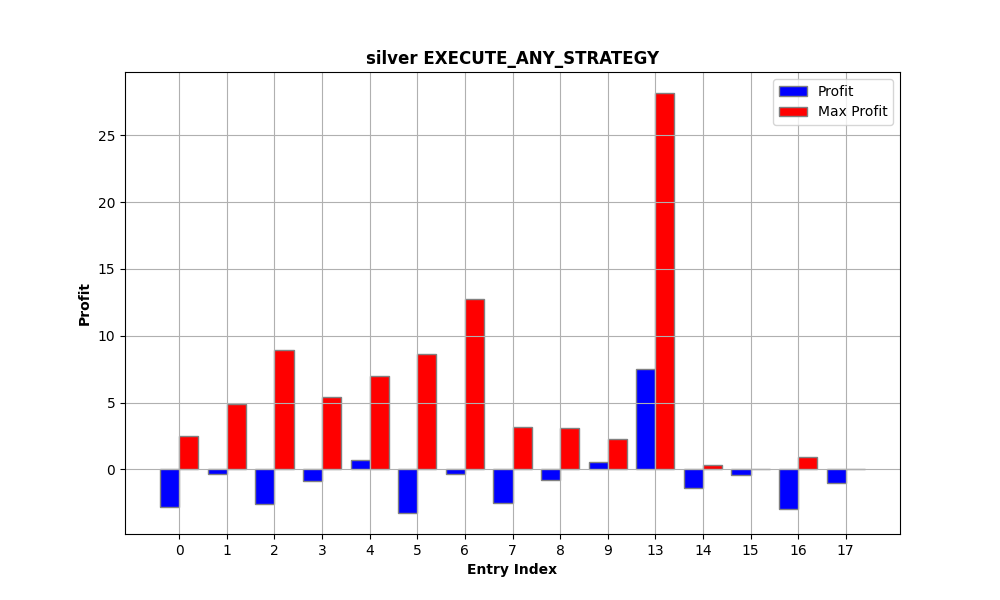
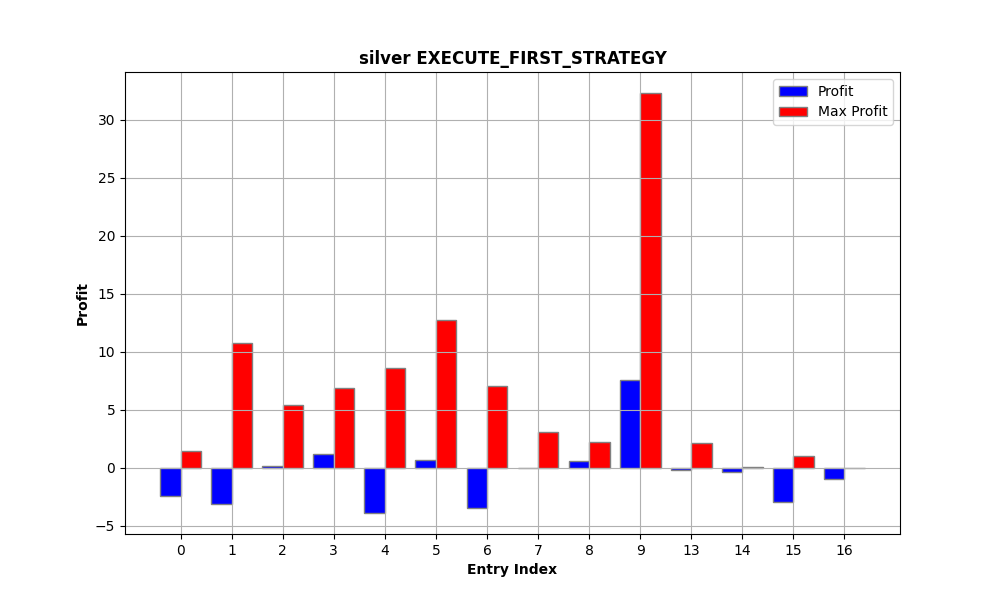
silver

diff --git a/visual.py b/visual.py
@@ -4,7 +4,8 @@ import matplotlib.pyplot as plt
 import numpy as np
 
 
-Forex = ["AUDCAD", "AUDUSD", "EURJPY", "GBPJPY", "GBPUSD", "USDJPY","Gold","silver"]
+#Forex = ["AUDCAD", "AUDUSD", "EURJPY", "GBPJPY", "GBPUSD", "USDJPY","Gold","silver"]
+Forex = ['silver']
 
 
 save_path = '/home/prasanjith/Desktop/atr/Results/result.png'
@@ -16,28 +17,27 @@ for coin in Forex:
     with open(File_path, 'r') as file:
         data = json.load(file)
 
-    strategy = data[0]['strategy']
     Trade_days_profit = defaultdict(list)
     Trade_days_max_profit = defaultdict(list)
 
     graph = 'nonProfitDays'
     graph1 = 'profitDays'
-    strategy = data[0]['strategy']
+    strategy = data[1]['strategy']
     Trade_days_profit = defaultdict(list)
     Trade_days_max_profit = defaultdict(list)
 
     #graph = 'nonProf
 
-    num_pd = len(data[0][graph1])
-    num_npd = len(data[0][graph])
+    num_pd = len(data[1][graph1])
+    num_npd = len(data[1][graph])
 
     for i in range(num_pd):
-        Trade_days_profit[data[0][graph1][i]['entryIndex']].append(data[0][graph1][i]['profit'])
-        Trade_days_max_profit[data[0][graph1][i]['entryIndex']].append(data[0][graph1][i]['maxProfit'])
+        Trade_days_profit[data[1][graph1][i]['entryIndex']].append(data[1][graph1][i]['profit'])
+        Trade_days_max_profit[data[1][graph1][i]['entryIndex']].append(data[1][graph1][i]['maxProfit'])
 
     for i in range(num_npd):
-        Trade_days_profit[data[0][graph][i]['entryIndex']].append(data[0][graph][i]['profit'])
-        Trade_days_max_profit[data[0][graph][i]['entryIndex']].append(data[0][graph][i]['maxProfit'])
+        Trade_days_profit[data[1][graph][i]['entryIndex']].append(data[1][graph][i]['profit'])
+        Trade_days_max_profit[data[1][graph][i]['entryIndex']].append(data[1][graph][i]['maxProfit'])
 
     profit  = {k: sum(v) for k, v in Trade_days_profit.items()}
     max_profit = {k: sum(v) for k, v in Trade_days_max_profit.items()}
